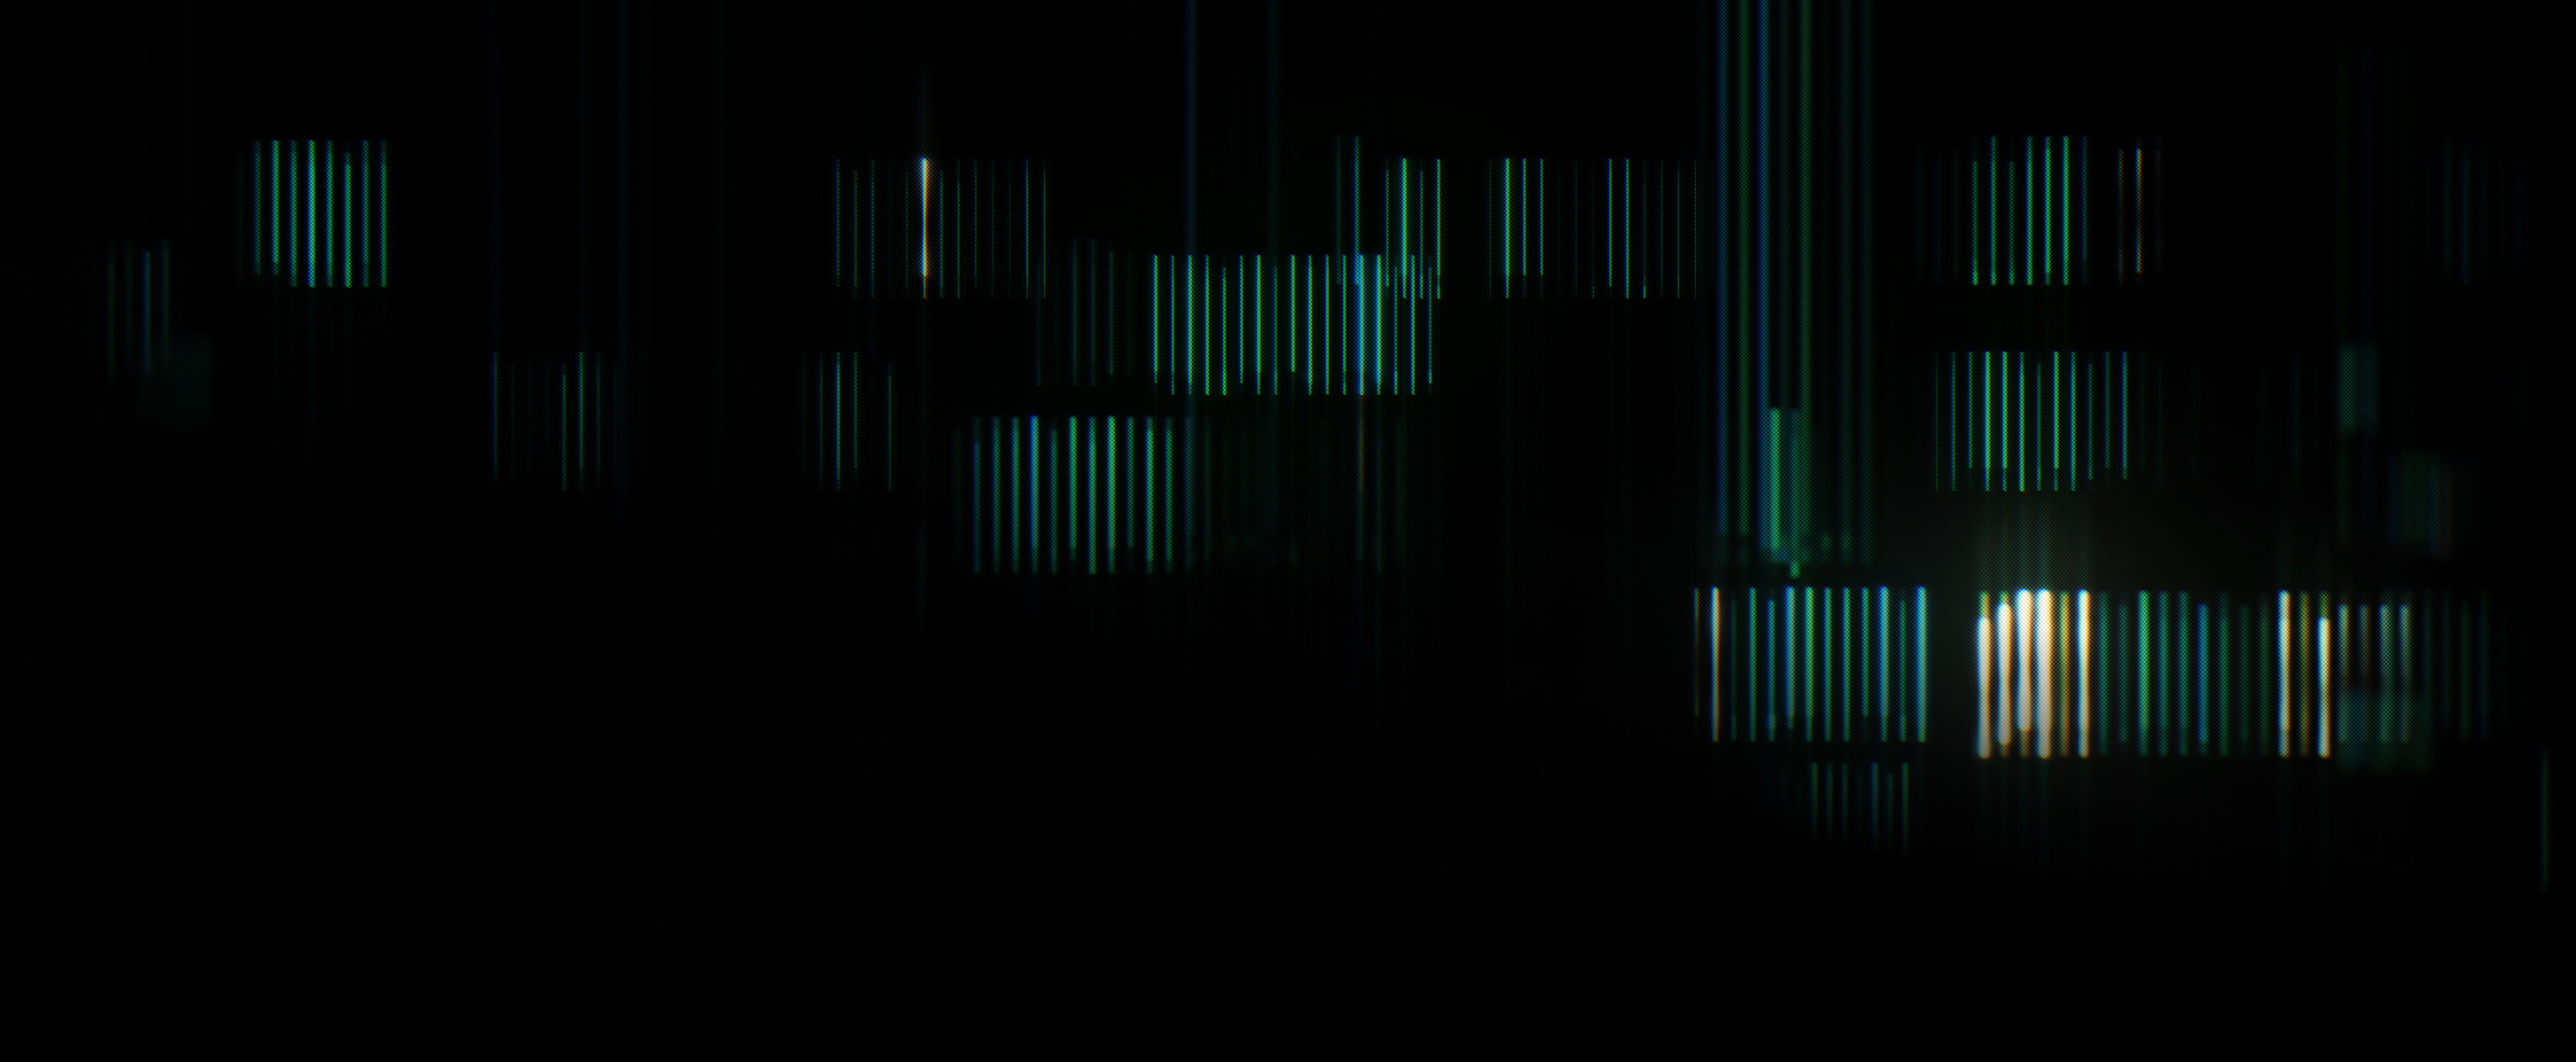
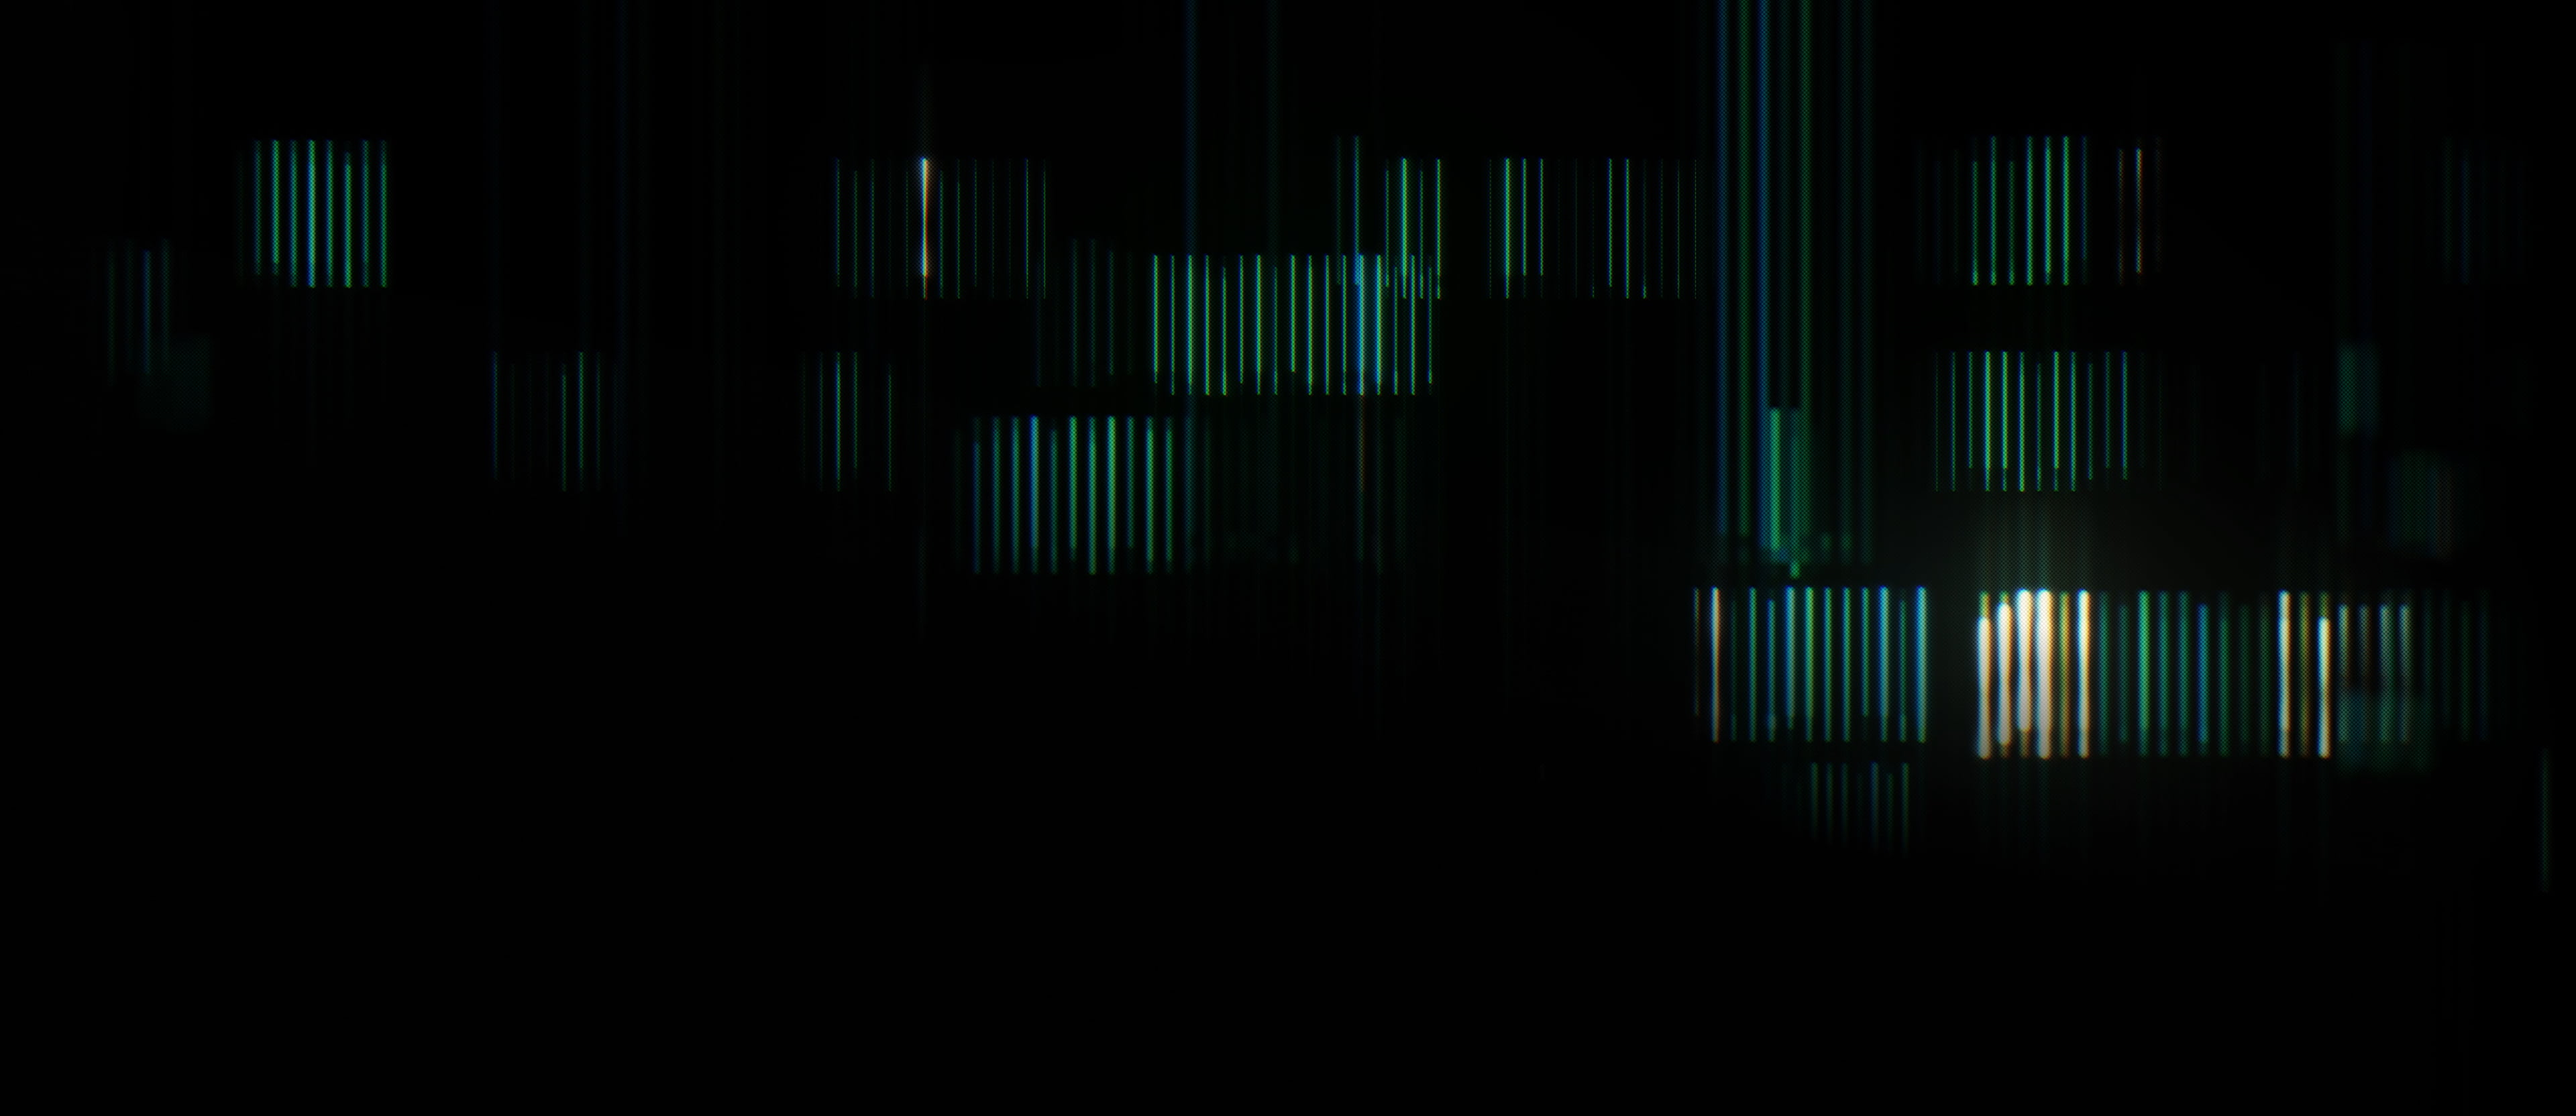
fix: upd hero videos

diff --git a/src/components/pages/home-new/hero/hero.jsx b/src/components/pages/home-new/hero/hero.jsx
@@ -45,8 +45,9 @@ const Hero = () => (
     <div className="pointer-events-none absolute inset-0 z-10 overflow-hidden">
       {/*
         Video optimization parameters:
-          mp4: ffmpeg -i hero-origin.mp4 -c:v libx265 -crf 25 -vf scale=3840:-2 -preset veryslow -tag:v hvc1 -movflags faststart -an hero.mp4
-          webm: ffmpeg -i hero-origin.mp4 -c:v libvpx-vp9 -crf 35 -vf scale=3840:-2 -deadline best -an hero.webm
+          mp4: ffmpeg -i hero.mov -c:v libaom-av1 -crf 25 -b:v 0 -pix_fmt yuv420p10le -vf scale=2880:-2 -cpu-used 0 -tiles 4x2 -row-mt 1 -threads 16 -strict experimental -tag:v av01 -movflags faststart -an hero-av1.mp4
+          mp4: ffmpeg -i hero.mov -c:v libx265 -crf 25 -pix_fmt yuv420p10le -vf scale=2880:-2 -preset veryslow -tag:v hvc1 -movflags faststart -an hero.mp4
+          webm: ffmpeg -i hero.mov -c:v libvpx-vp9 -pix_fmt yuv420p10le -crf 35 -vf scale=2880:-2 -deadline best -an hero.webm
       */}
       <PauseableVideo
         className={clsx(
@@ -54,11 +55,11 @@ const Hero = () => (
           'xl:-top-[50px] xl:w-[1304px] lg:-top-2 lg:w-[1016px] sm:hidden'
         )}
         width={1920}
-        height={792}
+        height={832}
         poster="/videos/pages/home-new/hero/poster.jpg"
       >
         <source
-          src="/videos/pages/home-new/hero/hero-aom.mp4"
+          src="/videos/pages/home-new/hero/hero-av1.mp4"
           type="video/mp4; codecs=av01.0.05M.08,opus"
         />
         <source src="/videos/pages/home-new/hero/hero.mp4" type="video/mp4" />

diff --git a/src/components/pages/home-new/cta/cta.jsx b/src/components/pages/home-new/cta/cta.jsx
@@ -5,7 +5,7 @@ import links from 'constants/links';
 import CopyCodeButton from './copy-code-button';
 
 const CTA = () => (
-  <section className="cta safe-paddings relative border-b border-gray-new-20">
+  <section className="cta safe-paddings relative">
     <div className="absolute inset-0 z-30 mx-auto flex max-w-[1920px] flex-col px-16 pb-9 pt-14 text-white xl:px-8 xl:pb-5 xl:pt-12 lg:pt-9 md:px-5 md:pb-6 md:pt-[52px]">
       <h2 className="text-[80px] leading-none tracking-tighter xl:text-[64px] lg:text-[44px] md:text-[32px]">
         Features of tomorrow. <br /> Available today.
